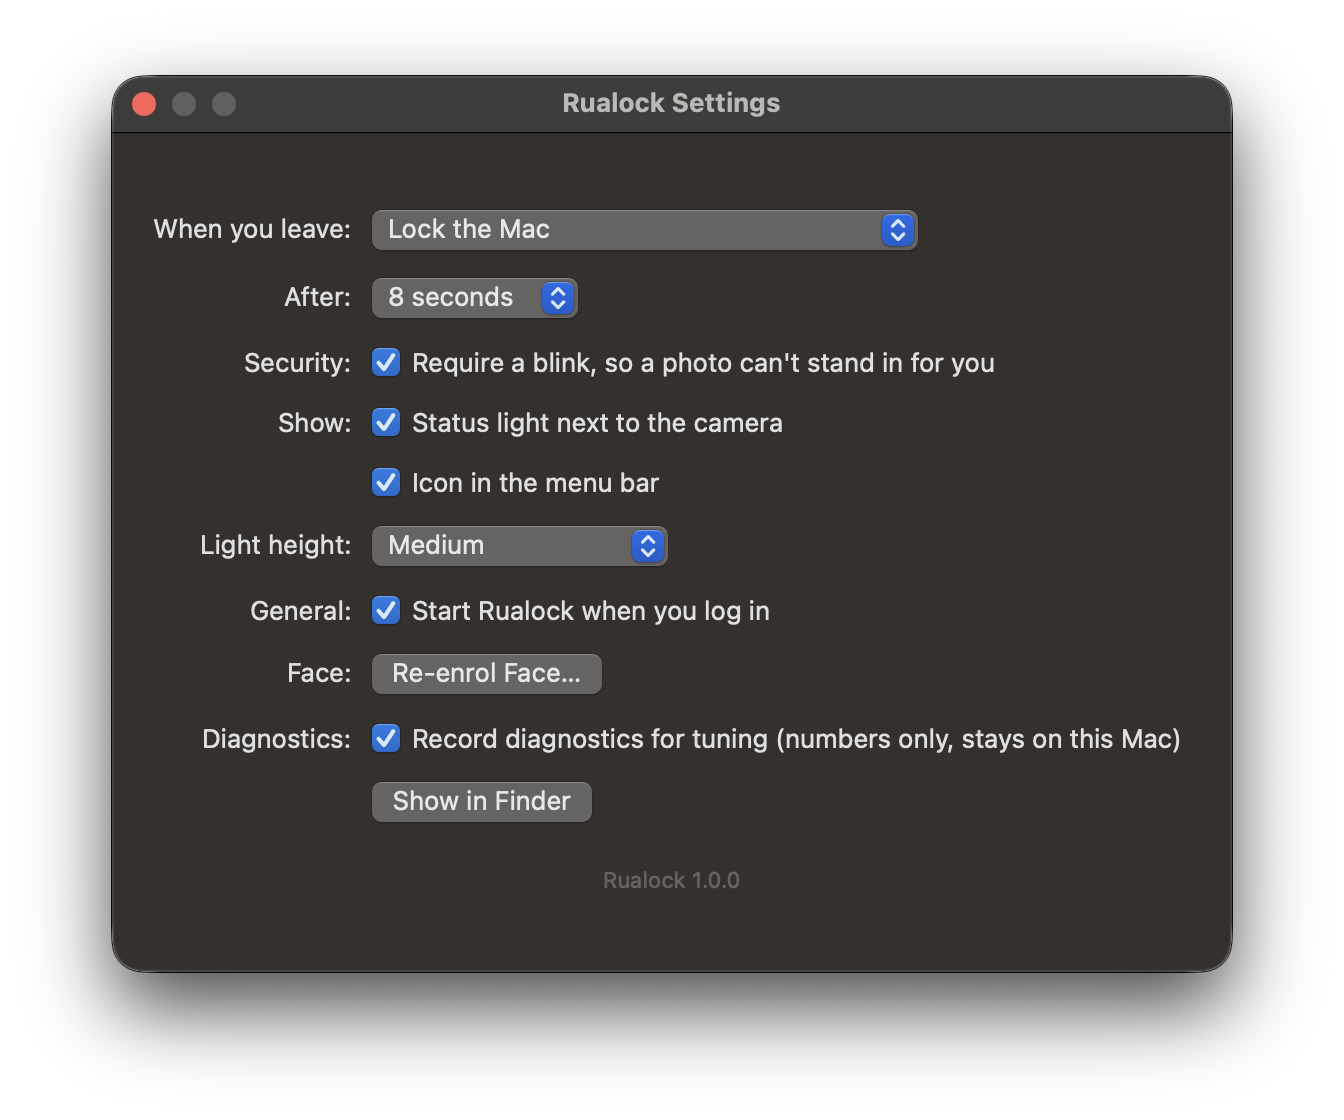
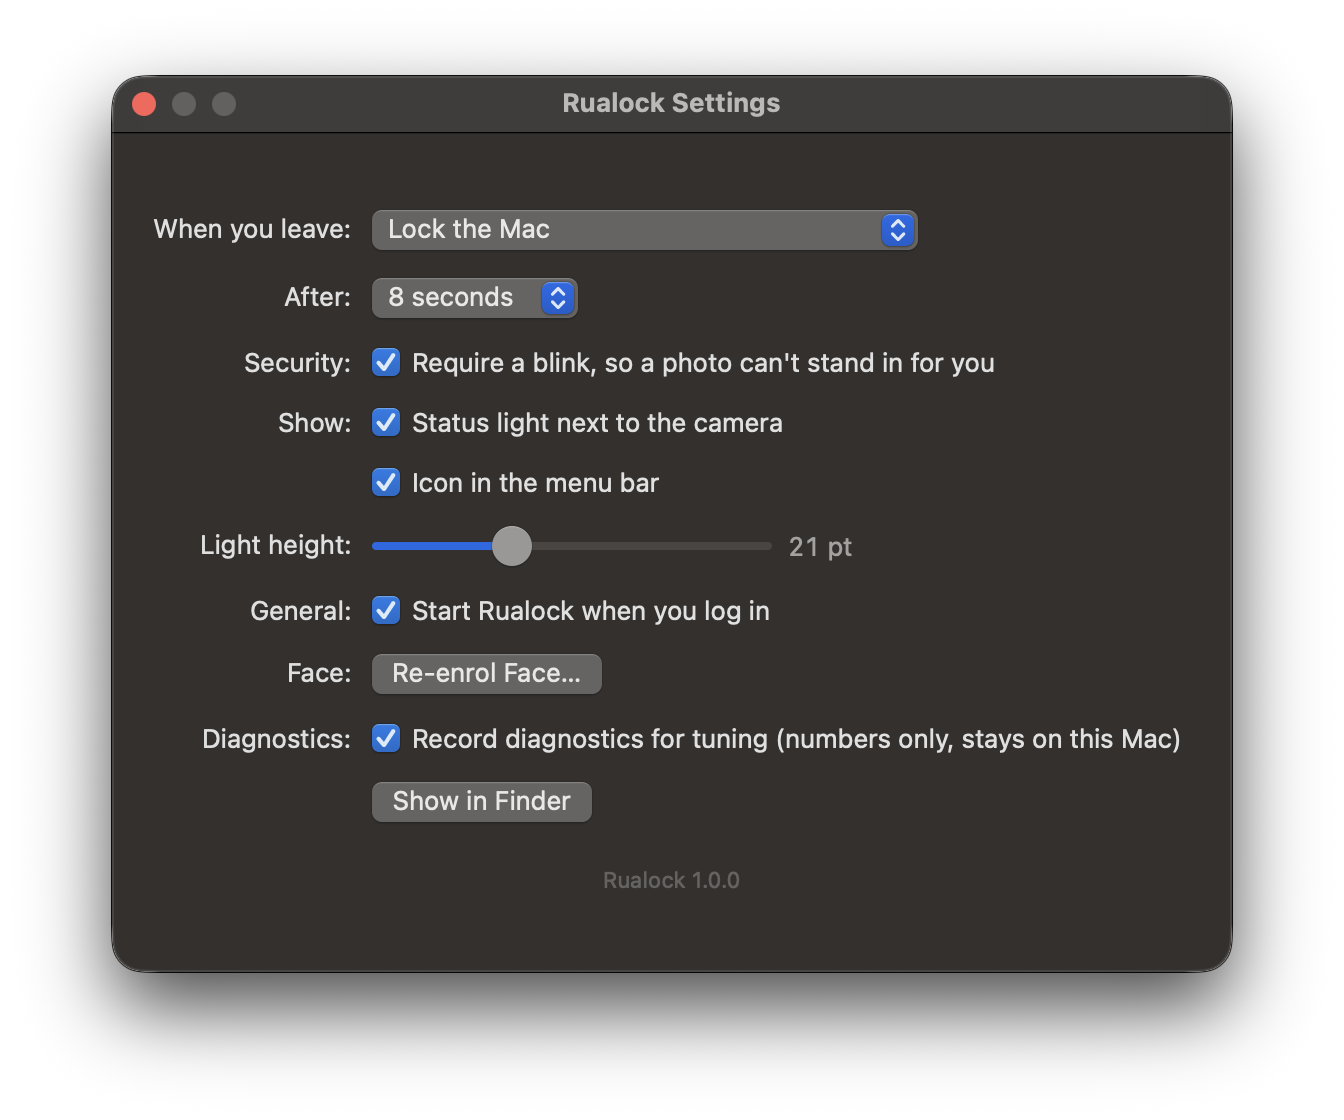
Make the status light's height a slider instead of four steps
Any height from just around the ring to the full notch, in half-point steps, resizing
live as you drag. An earlier short/medium/tall/notch choice carries over.
Screenshots now render with freeze mode off whatever your own setting is.

Changed region(s): [[0.25, 0.4688, 0.5, 0.5312], [0.5938, 0.4688, 0.625, 0.5]]

diff --git a/Sources/Rualock/SettingsWindow.swift b/Sources/Rualock/SettingsWindow.swift
@@ -4,7 +4,8 @@ final class SettingsWindowController: NSWindowController {
     private let delay = NSPopUpButton()
     private let login = NSButton(checkboxWithTitle: "Start Rualock when you log in", target: nil, action: nil)
     private let island = NSButton(checkboxWithTitle: "Status light next to the camera", target: nil, action: nil)
-    private let islandSize = NSPopUpButton()
+    private let islandHeight = NSSlider()
+    private let islandHeightValue = NSTextField(labelWithString: "")
     private let menuBar = NSButton(checkboxWithTitle: "Icon in the menu bar", target: nil, action: nil)
     private let diagnostics = NSButton(checkboxWithTitle: "Record diagnostics for tuning (numbers only, stays on this Mac)", target: nil, action: nil)
     private let action = NSPopUpButton()
@@ -45,9 +46,16 @@ final class SettingsWindowController: NSWindowController {
             b.target = self
             b.action = #selector(displayChanged)
         }
-        islandSize.addItems(withTitles: IslandSize.allCases.map(\.title))
-        islandSize.target = self
-        islandSize.action = #selector(islandSizeChanged)
+        islandHeight.minValue = Double(IslandView.minHeight)
+        islandHeight.maxValue = Double(IslandView.maxHeightHere)
+        islandHeight.isContinuous = true  // the light resizes as you drag
+        islandHeight.widthAnchor.constraint(equalToConstant: 200).isActive = true
+        islandHeight.target = self
+        islandHeight.action = #selector(islandHeightChanged)
+        islandHeightValue.font = .monospacedDigitSystemFont(ofSize: NSFont.systemFontSize, weight: .regular)
+        islandHeightValue.textColor = .secondaryLabelColor
+        let heightRow = NSStackView(views: [islandHeight, islandHeightValue])
+        heightRow.spacing = 8
         let reenroll = NSButton(title: "Re-enrol Face…", target: self, action: #selector(reenrollClicked))
 
         let grid = NSGridView(views: [
@@ -56,7 +64,7 @@ final class SettingsWindowController: NSWindowController {
             [label("Security:"), blink],
             [label("Show:"), island],
             [NSGridCell.emptyContentView, menuBar],
-            [label("Light height:"), islandSize],
+            [label("Light height:"), heightRow],
             [label("General:"), login],
             [label("Face:"), reenroll],
             [label("Diagnostics:"), diagnostics],
@@ -111,8 +119,10 @@ final class SettingsWindowController: NSWindowController {
         menuBar.state = Prefs.showMenuBarIcon ? .on : .off
         island.isEnabled = Prefs.showMenuBarIcon
         menuBar.isEnabled = Prefs.showIsland
-        islandSize.selectItem(at: IslandSize.allCases.firstIndex(of: Prefs.islandSize) ?? 1)
-        islandSize.isEnabled = Prefs.showIsland
+        islandHeight.maxValue = Double(IslandView.maxHeightHere)
+        islandHeight.doubleValue = min(Prefs.islandHeight, islandHeight.maxValue)
+        islandHeight.isEnabled = Prefs.showIsland
+        showHeight()
     }
 
     @objc private func diagnosticsChanged() {
@@ -165,10 +175,16 @@ final class SettingsWindowController: NSWindowController {
         onDisplayChange()
     }
 
-    @objc private func islandSizeChanged() {
-        Prefs.islandSize = IslandSize.allCases[islandSize.indexOfSelectedItem]
-        note("status light height: \(Prefs.islandSize.rawValue)")
+    @objc private func islandHeightChanged() {
+        Prefs.islandHeight = (islandHeight.doubleValue * 2).rounded() / 2  // half-point steps
+        showHeight()
         onDisplayChange()
+        if NSApp.currentEvent?.type == .leftMouseUp { note("status light height: \(Prefs.islandHeight) pt") }
+    }
+
+    private func showHeight() {
+        let full = Prefs.islandHeight >= islandHeight.maxValue - 0.25
+        islandHeightValue.stringValue = full ? "Notch" : String(format: "%g pt", min(Prefs.islandHeight, islandHeight.maxValue))
     }
 
     @objc private func loginChanged() {

diff --git a/Sources/Rualock/Screenshots.swift b/Sources/Rualock/Screenshots.swift
@@ -18,7 +18,7 @@ final class Screenshots: NSObject, NSApplicationDelegate, IslandActions {
     private let bar: CGFloat = 32
     private let notchWidth: CGFloat = 190
     private lazy var view: IslandView = {
-        let v = IslandView(watcher: status, height: IslandView.height(notch: bar, size: .medium))
+        let v = IslandView(watcher: status, height: IslandView.height(notch: bar, preferred: 21))
         v.notch = true
         return v
     }()
@@ -28,7 +28,7 @@ final class Screenshots: NSObject, NSApplicationDelegate, IslandActions {
         dir = directory
         // Render with default settings whatever yours are (the argument domain wins, and isn't saved).
         UserDefaults.standard.setVolatileDomain([
-            "lockDelay": 8.0, "requireBlink": true, "showIsland": true, "showMenuBarIcon": true, "recordDiagnostics": true, "islandSize": "medium",
+            "lockDelay": 8.0, "requireBlink": true, "showIsland": true, "showMenuBarIcon": true, "recordDiagnostics": true, "islandHeight": 21.0, "freezeInstead": false,
         ], forName: UserDefaults.argumentDomain)
     }
 
@@ -150,7 +150,7 @@ final class Screenshots: NSObject, NSApplicationDelegate, IslandActions {
 
         // The island, then the notch on top of it, as the hardware hides what's under the notch.
         let notchRight = size.width / 2 + notchWidth / 2
-        view.frame = NSRect(x: 0, y: 0, width: width, height: IslandView.height(notch: bar, size: .medium))
+        view.frame = NSRect(x: 0, y: 0, width: width, height: IslandView.height(notch: bar, preferred: 21))
         cg.saveGState()
         cg.translateBy(x: notchRight - IslandView.notchOverlap, y: size.height - view.frame.height)
         view.draw(view.bounds)

diff --git a/Sources/Rualock/Store.swift b/Sources/Rualock/Store.swift
@@ -46,10 +46,20 @@ enum Prefs {
         set { d.set(newValue, forKey: "showIsland") }
     }
 
-    /// How tall the status light is beside the notch.
-    static var islandSize: IslandSize {
-        get { d.string(forKey: "islandSize").flatMap(IslandSize.init) ?? .medium }
-        set { d.set(newValue.rawValue, forKey: "islandSize") }
+    /// How tall the status light is beside the notch, in points. Anything from just around the ring
+    /// up to the notch's full height; taller values are capped at the notch.
+    static var islandHeight: Double {
+        get {
+            let v = d.double(forKey: "islandHeight")
+            if v > 0 { return v }
+            switch d.string(forKey: "islandSize") {  // the earlier four-step setting
+            case "short"?: return 17
+            case "tall"?: return 26
+            case "notch"?: return 100
+            default: return 21
+            }
+        }
+        set { d.set(newValue, forKey: "islandHeight") }
     }
 
     /// The icon in the menu bar.
@@ -61,21 +71,6 @@ enum Prefs {
     static var didOfferLoginItem: Bool {
         get { d.bool(forKey: "didOfferLoginItem") }
         set { d.set(newValue, forKey: "didOfferLoginItem") }
-    }
-}
-
-/// Heights for the status light: the ring with a small, medium or large margin above and below,
-/// or as tall as the notch.
-enum IslandSize: String, CaseIterable {
-    case short, medium, tall, notch
-
-    var title: String {
-        switch self {
-        case .short: return "Short"
-        case .medium: return "Medium"
-        case .tall: return "Tall"
-        case .notch: return "As tall as the notch"
-        }
     }
 }
 

diff --git a/Sources/Rualock/Island.swift b/Sources/Rualock/Island.swift
@@ -172,16 +172,20 @@ final class IslandView: NSView {
     /// How far the window starts left of the notch edge (the part tucked under the notch).
     static let notchOverlap = K.overlap
 
-    /// The ring plus a margin above and below (see `IslandSize`), never taller than the notch.
-    static func height(notch: CGFloat, size: IslandSize = Prefs.islandSize) -> CGFloat {
-        let margin: CGFloat
-        switch size {
-        case .short: margin = 2
-        case .medium: margin = 4
-        case .tall: margin = 6.5
-        case .notch: return notch - K.notchTrim
-        }
-        return min(notch - K.notchTrim, 2 * (K.ring + 1 + margin))
+    /// The shortest the light can be: the countdown ring and a point above and below it.
+    static let minHeight = 2 * (K.ring + K.inner)
+
+    /// The tallest it can be beside a notch this tall: a touch shorter, to match the camera housing.
+    static func maxHeight(notch: CGFloat) -> CGFloat { notch - K.notchTrim }
+
+    /// The tallest on this Mac's notch (or a typical notch if no screen has one), for the Settings slider.
+    static var maxHeightHere: CGFloat {
+        maxHeight(notch: NSScreen.screens.map(\.safeAreaInsets.top).max().flatMap { $0 > 0 ? $0 : nil } ?? 32)
+    }
+
+    /// The light's height beside a notch, from `Prefs.islandHeight`, between `minHeight` and the notch.
+    static func height(notch: CGFloat, preferred: CGFloat = CGFloat(Prefs.islandHeight)) -> CGFloat {
+        min(maxHeight(notch: notch), max(minHeight, preferred))
     }
 
     /// One step of the hover spring: a little overshoot, then it settles, like the Dynamic Island.

diff --git a/README.md b/README.md
@@ -21,7 +21,7 @@ Rualock watches your webcam for *your* face. When your face has been gone for a 
 - **A photo isn't enough.** A face that appears after a gap has to blink or talk before it counts as you, and a photo or a frozen screen does neither. Once your face is confirmed (by a blink, by talking, or by being there right after you unlock), it stays confirmed for as long as it's continuously in view. If the camera loses you for a moment (looking down makes detection flicker) and finds you again within 6 seconds, within about two face widths of where you were, you stay confirmed.
 - **Typing counts.** Looking down at the keyboard can hide your face from the camera. Keyboard and mouse use that carries straight on from your confirmed face, with no pause over 3 seconds, keeps you present for up to 90 seconds. Right after you unlock or click Resume, typing counts straight away. Someone sitting down after you leave can't pick it up, because standing up and sitting down takes longer than that.
 - **Lives in the notch.** A black shape extends the camera housing, so it looks like part of the hardware. Hover over it to read the status; it opens and closes on a spring.
-- **Or just the menu bar.** A normal menu bar icon shows the same dot and countdown ring, and its menu has pause, lock, Settings and Quit. In Settings you can turn off the light next to the camera, the menu bar icon, or neither; at least one stays on. The light comes in four heights (Settings › Light height).
+- **Or just the menu bar.** A normal menu bar icon shows the same dot and countdown ring, and its menu has pause, lock, Settings and Quit. In Settings you can turn off the light next to the camera, the menu bar icon, or neither; at least one stays on. Its height is adjustable in Settings, from just around the dot up to the full notch.
 - **Prank mode: freeze instead of lock.** In Settings, set "When you leave" to *Freeze the screen*. Instead of locking, Rualock covers the screen with an invisible window: everything looks unlocked, but clicks, typing, ⌘-Tab and Force Quit do nothing. It lifts when Rualock sees your face again (blink to confirm, so a photo won't do), or when the Mac is locked and unlocked (⌃⌘Q, the Touch ID button or closing the lid, then your password). If the camera stops working while frozen, Rualock locks for real. Switching it on needs Touch ID. It's a prank, not a lock: Mission Control, Spotlight and other system shortcuts still get through.
 - **Visible countdown.** When you leave, an amber ring drains around the dot, then the Mac locks.
 - **Pause with Touch ID.** Click the dot to pause for 15 minutes; a grey ring shows the time left. Locking the screen ends a pause, so protection is back on as soon as you log back in.
